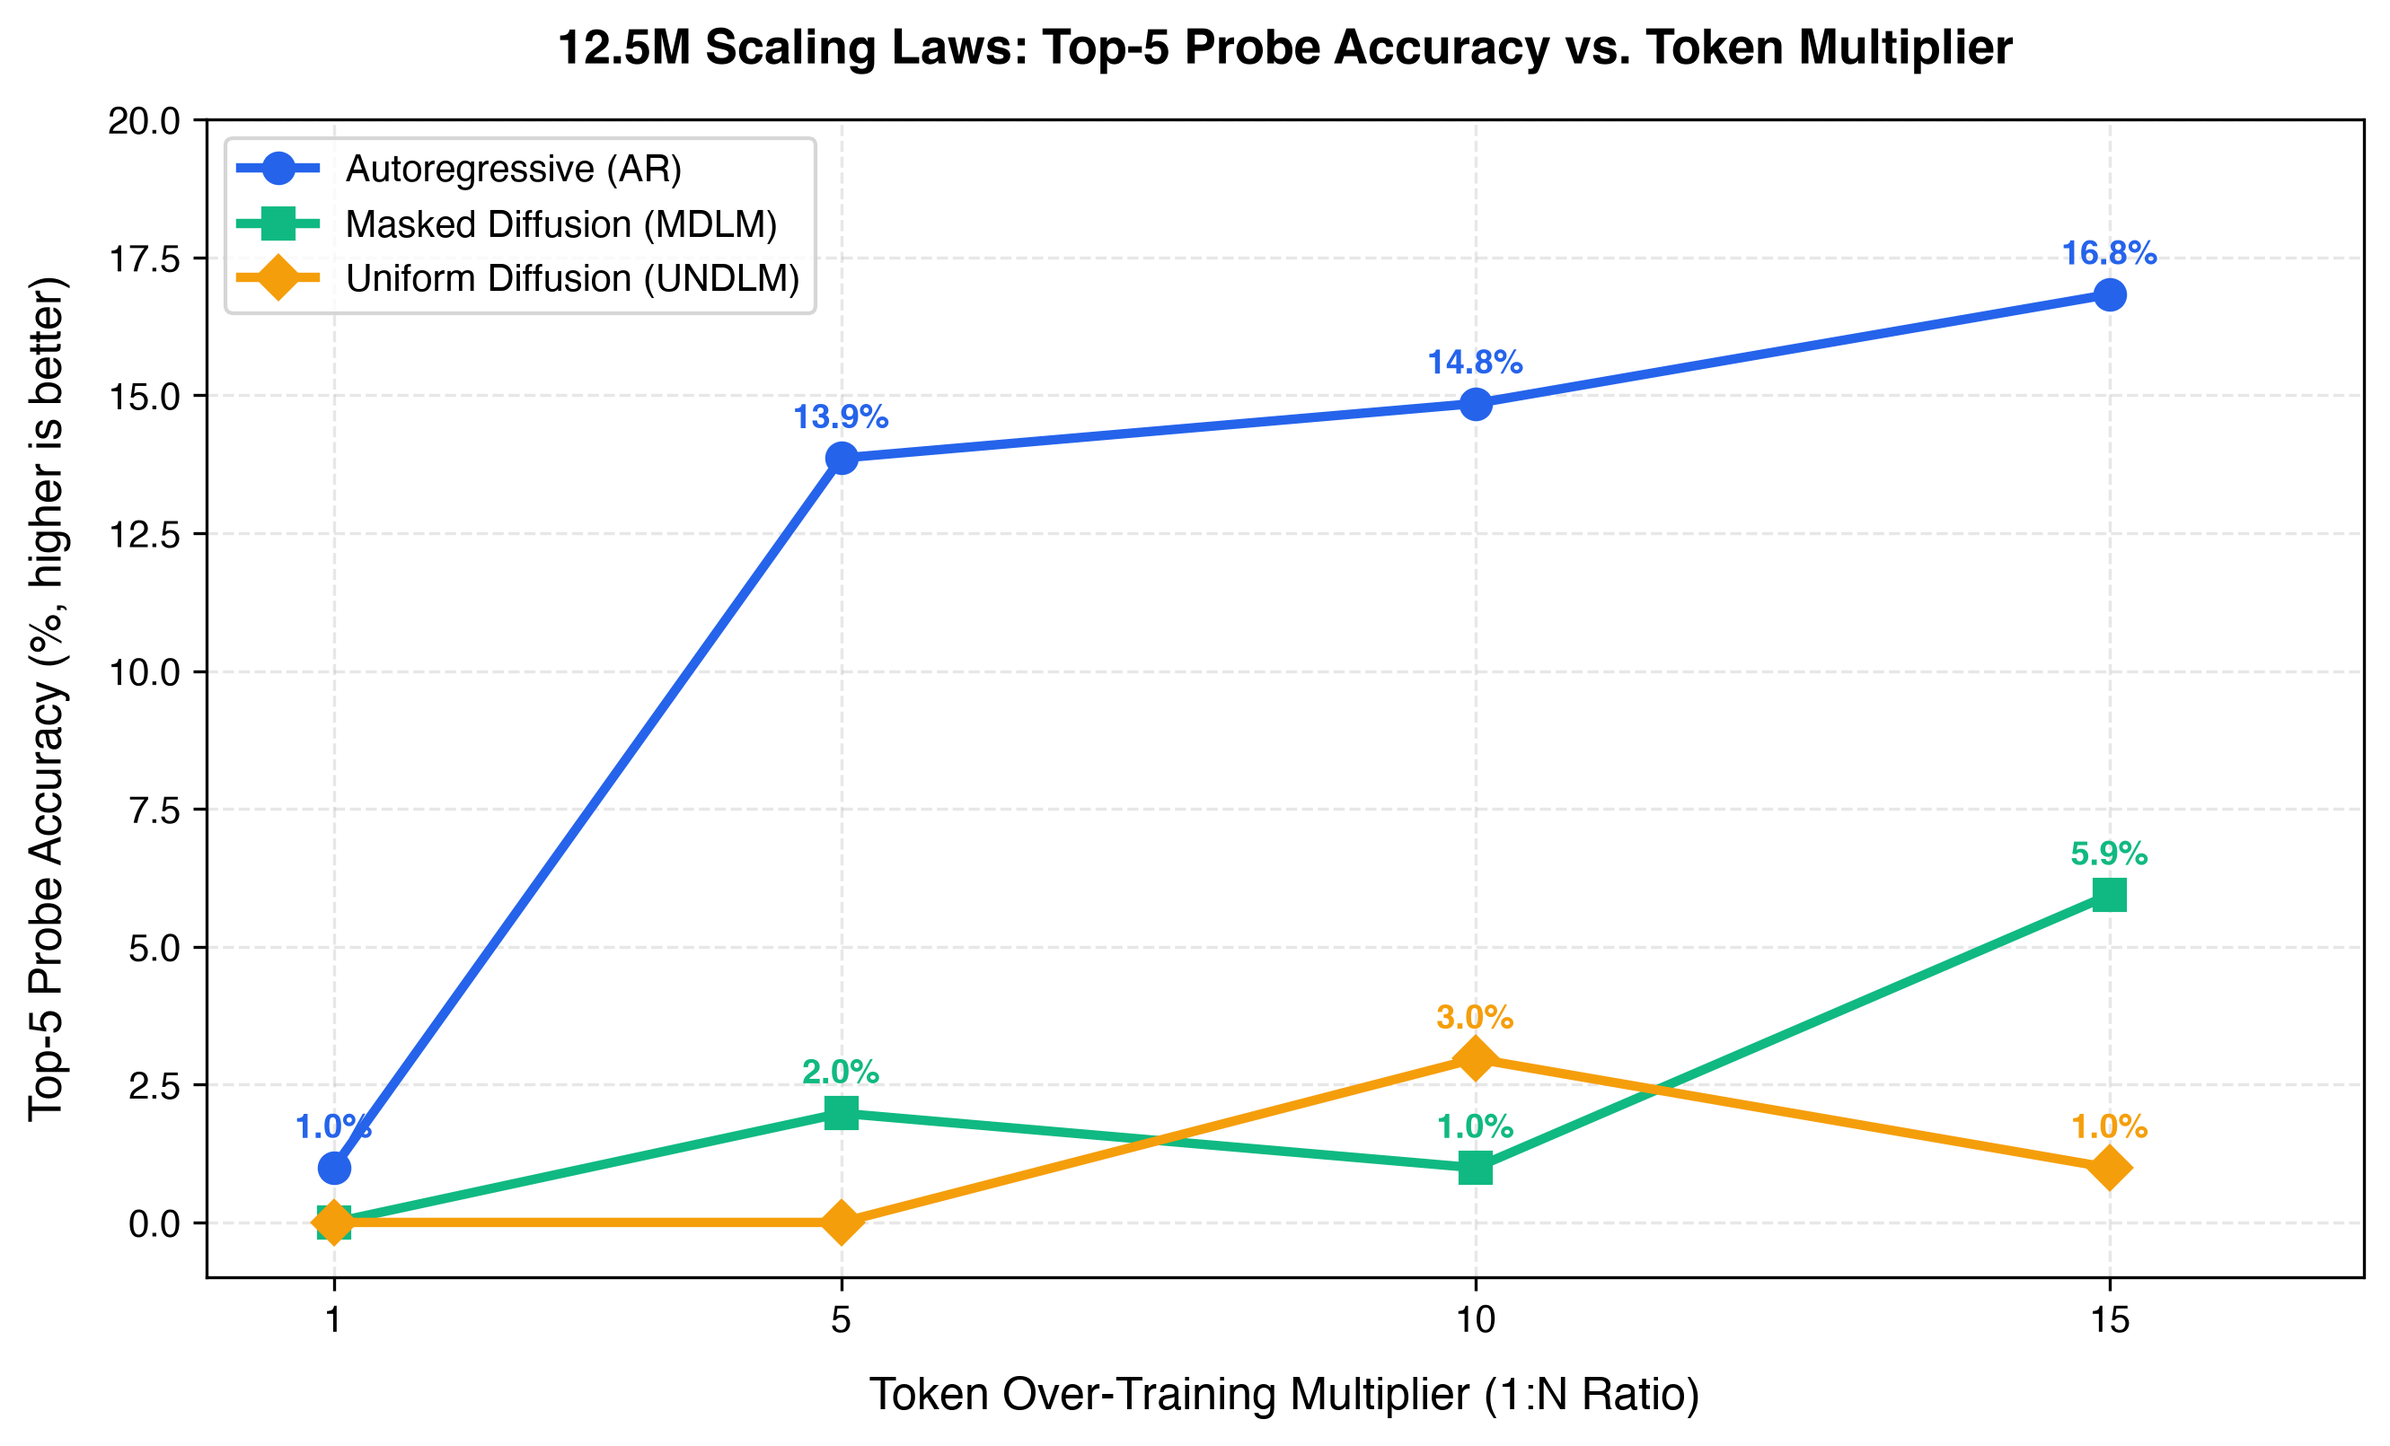
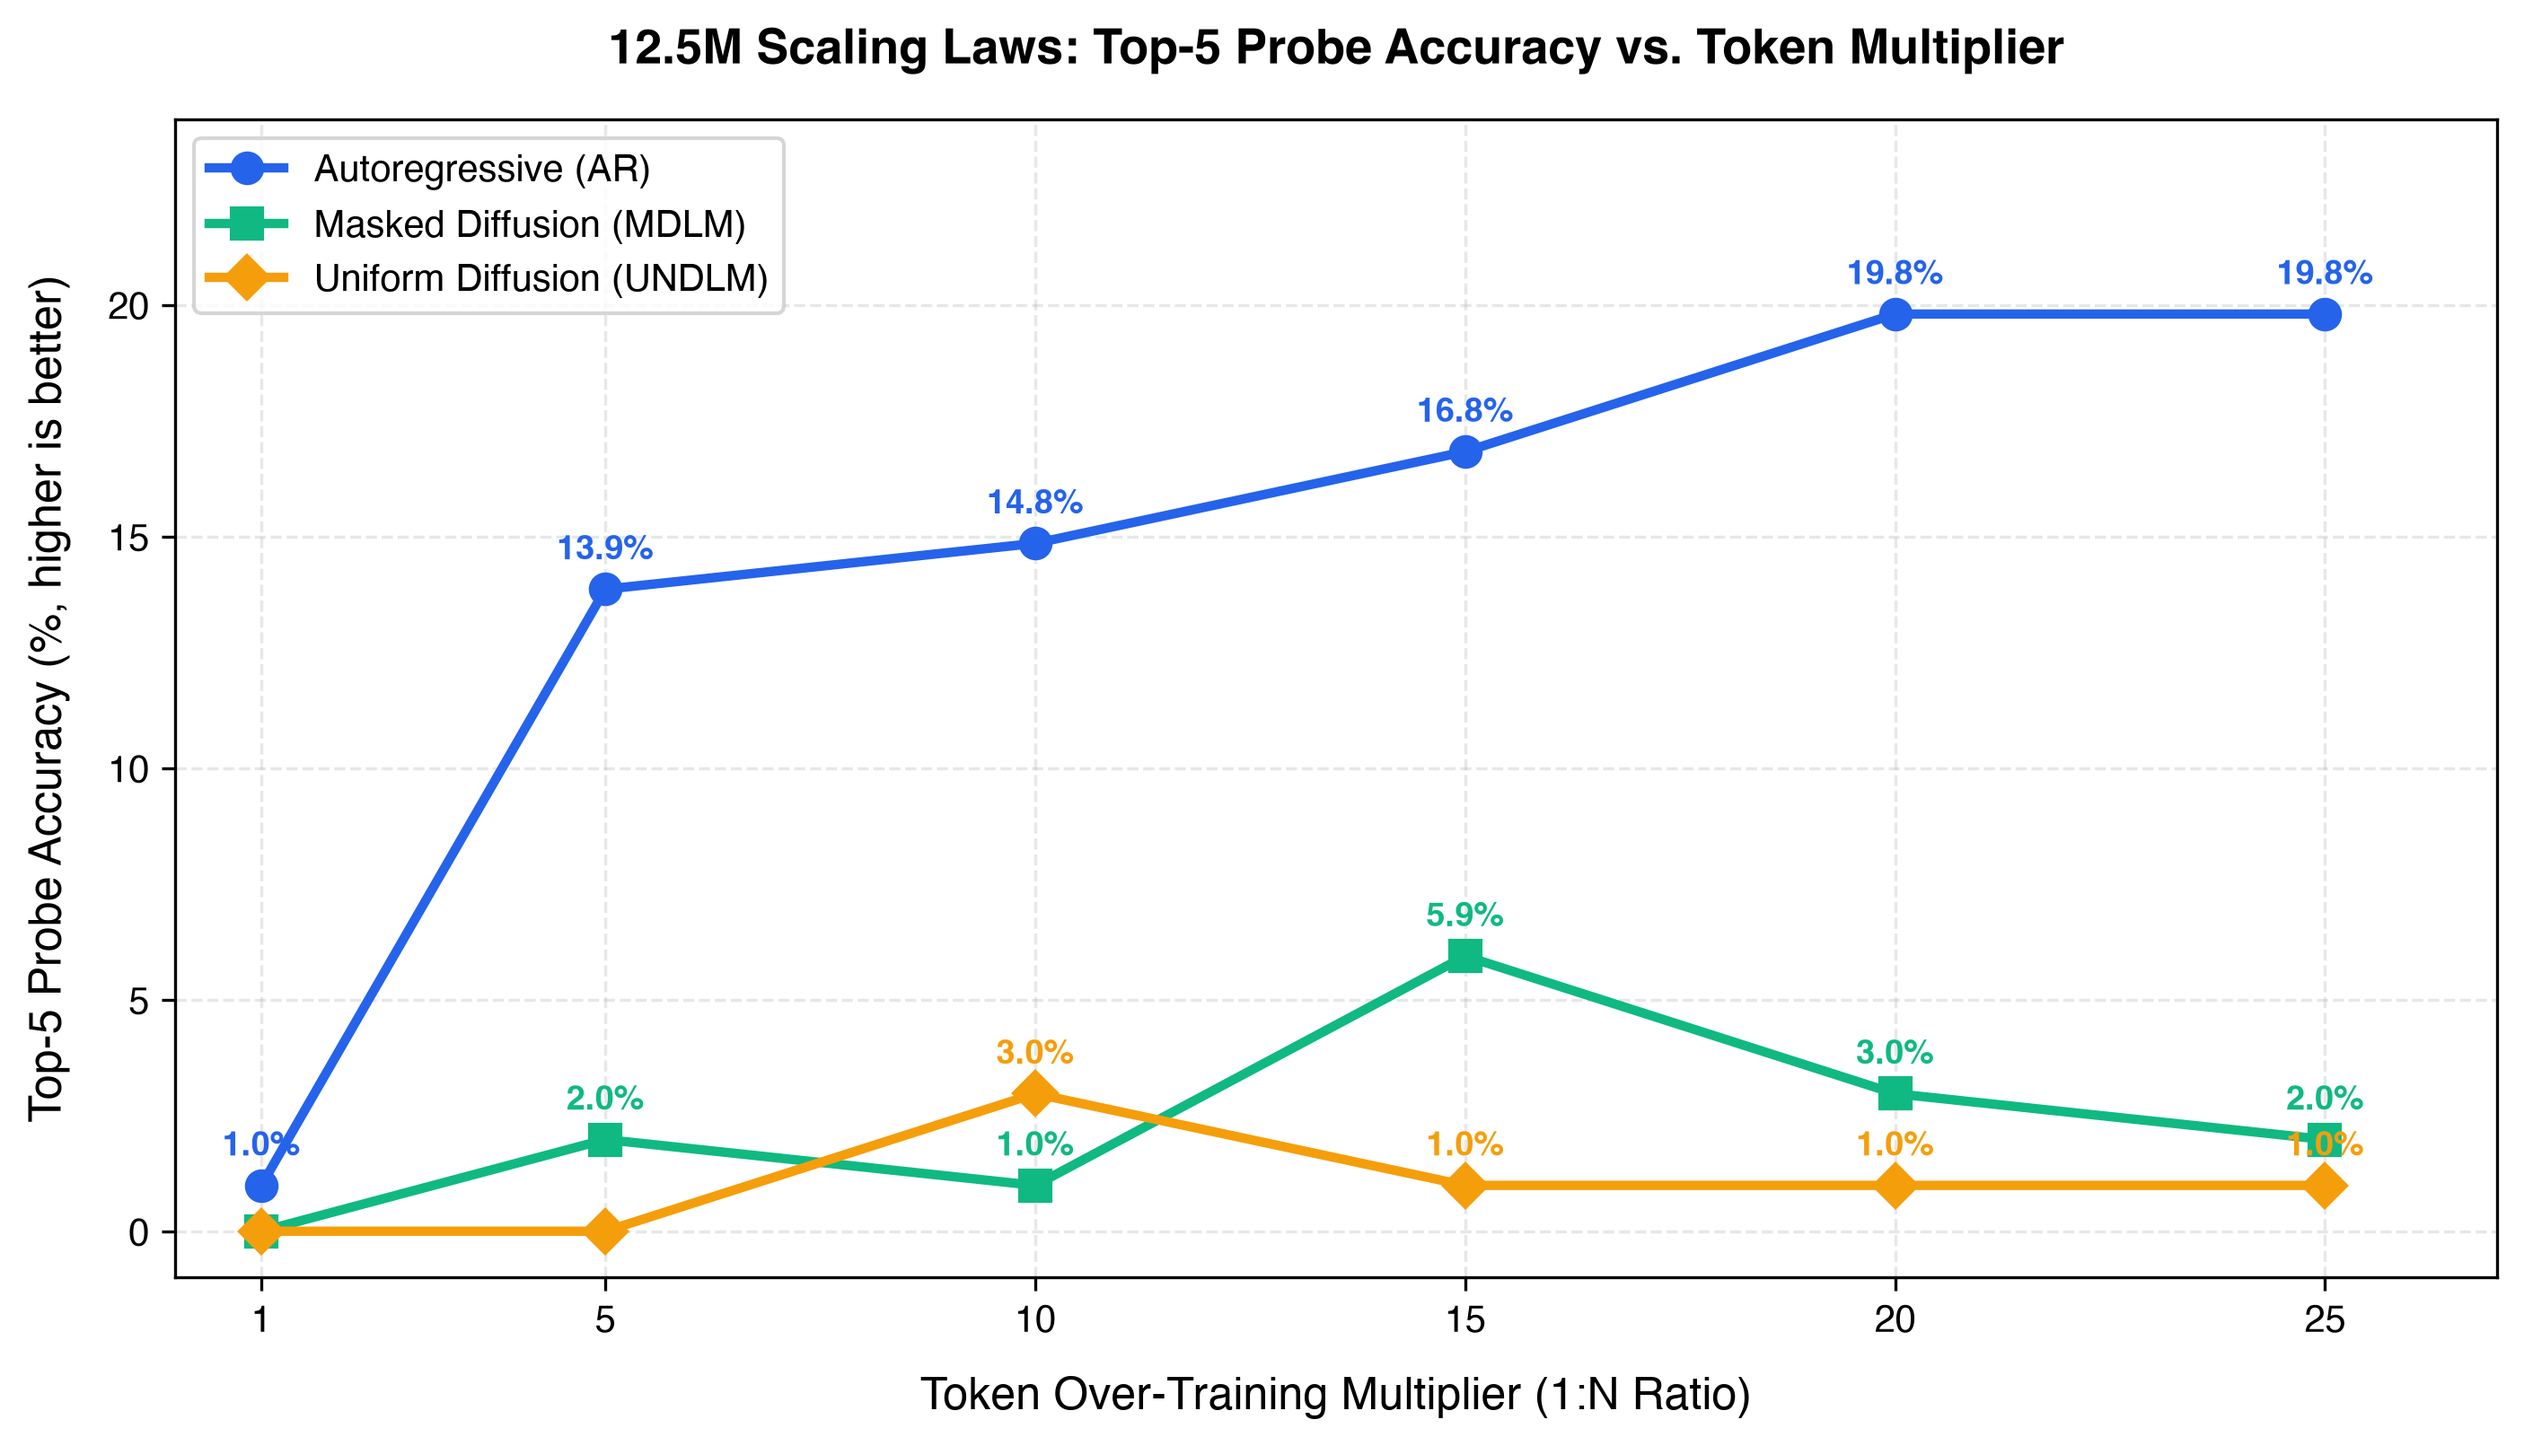
add: update figures, add upscaling to notebook and add new model configs

diff --git a/README.md b/README.md
@@ -112,6 +112,6 @@ For advanced cluster setups, dataset tokenization, and TPU training, see [DEPLOY
 
 Apache-2.0 License. See [LICENSE](LICENSE) for details.
 
-### For the reviewers...
+## For the reviewers...
 
-PLEASE state what part you think is AI generated, NONE of the README is AI generated. I wrote it myself. 😭
+PLEASE state what part you think is AI generated, and why does it look AI generated. NONE of the README is AI generated. I wrote it myself. 😭
